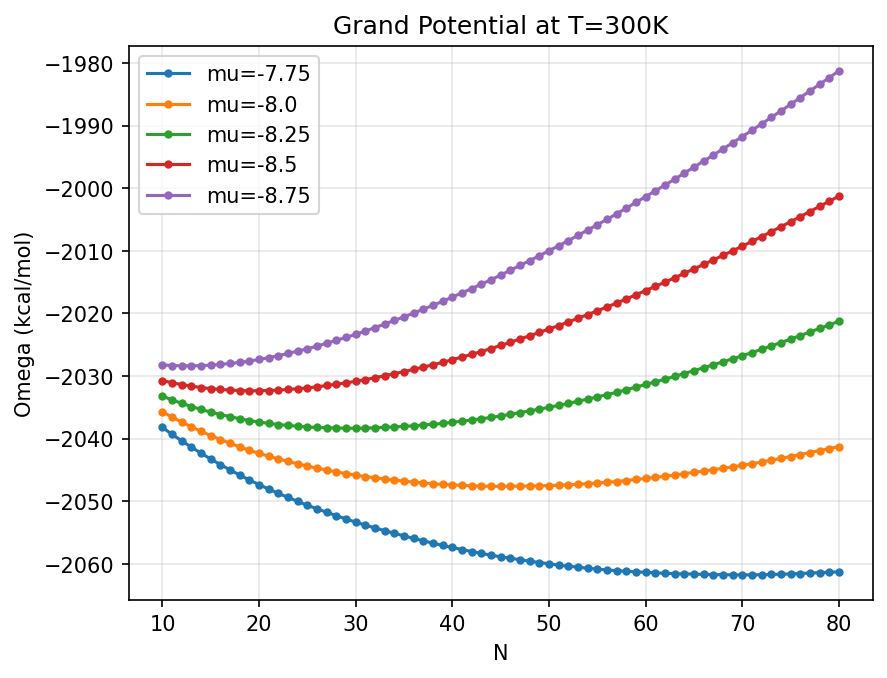
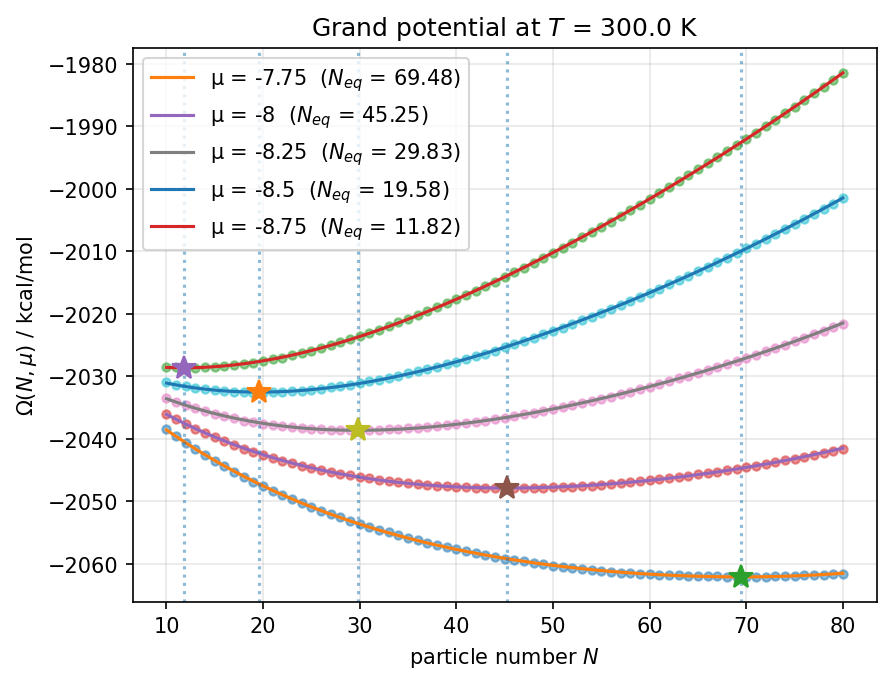
Plotting and docs updates.

Changed region(s): [[0.0, 0.0, 1.0, 0.9912], [0.5175, 0.3097, 0.7001, 0.4336]]

diff --git a/analysis/scripts/wang_landau/thermo.py b/analysis/scripts/wang_landau/thermo.py
@@ -38,14 +38,60 @@ def grand_potential(
     return helmholtz_free_energy(ln_g, T=T, kB=kB) - mu * N
 
 
+def _fitted_grand_potential(N, omega, degree):
+    r"""Fit ``omega(N)`` with a polynomial and locate its minimum.
+
+    Returns ``(poly, n_min)`` where ``poly`` is the fitted
+    :class:`numpy.poly1d` (or ``None`` when there are too few samples to fit)
+    and ``n_min`` is the minimizing ``N``. When the fit is unavailable or its
+    minimum lies outside the sampled range, ``n_min`` falls back to the
+    discrete :func:`numpy.argmin` of ``omega``.
+    """
+    n_min = float(N[int(np.argmin(omega))])
+
+    # Not enough points to fit the requested polynomial -> discrete argmin.
+    if N.size <= degree:
+        return None, n_min
+
+    coeffs = np.polyfit(N, omega, degree)  # highest power first
+    poly = np.poly1d(coeffs)
+
+    # Stationary points = real roots of the derivative inside [N.min, N.max].
+    n_lo, n_hi = float(N.min()), float(N.max())
+    roots = np.roots(np.polyder(coeffs))
+    real_roots = roots[np.isreal(roots)].real
+    inside = real_roots[(real_roots >= n_lo) & (real_roots <= n_hi)]
+    if inside.size == 0:
+        return poly, n_min
+
+    # Among the interior stationary points and the boundaries, pick the one
+    # with the lowest grand potential according to the fit.
+    candidates = np.concatenate(([n_lo, n_hi], inside))
+    n_min = float(candidates[int(np.argmin(poly(candidates)))])
+    return poly, n_min
+
+
 def equilibrium_particle_number(
     N: np.ndarray,
     ln_g: np.ndarray,
     mu: float,
     T: float = 300.0,
     kB: float = kB_KCAL,
-) -> int:
-    r"""Equilibrium particle number ``N_eq(mu) = argmin_N Omega(N, mu)``."""
+    degree: int = 4,
+) -> float:
+    r"""Equilibrium particle number ``N_eq(mu) = argmin_N Omega(N, mu)``.
+
+    Rather than returning the discrete sample with the smallest grand
+    potential, the grand potential ``Omega(N, mu)`` is fitted by a polynomial
+    of the given ``degree`` in ``N`` and the minimum of that fit is returned.
+    This yields a sub-integer estimate of the equilibrium particle number and
+    smooths over statistical noise in the Wang-Landau density of states.
+
+    Falls back to the discrete :func:`numpy.argmin` result when fewer than
+    ``degree + 1`` samples are available or when the fitted minimum lies
+    outside the sampled range of ``N``.
+    """
     N = np.asarray(N, dtype=float)
     omega = grand_potential(N, ln_g, mu, T=T, kB=kB)
-    return int(N[int(np.argmin(omega))])
+    _, n_min = _fitted_grand_potential(N, omega, degree)
+    return n_min

diff --git a/analysis/scripts/wang_landau/plotting.py b/analysis/scripts/wang_landau/plotting.py
@@ -9,7 +9,12 @@ from __future__ import annotations
 import numpy as np
 
 from .io import WangLandauResult
-from .thermo import grand_potential, helmholtz_free_energy, kB_KCAL
+from .thermo import (
+    _fitted_grand_potential,
+    grand_potential,
+    helmholtz_free_energy,
+    kB_KCAL,
+)
 
 
 def plot_grand_potential(
@@ -17,6 +22,8 @@ def plot_grand_potential(
     mus,
     T: float = 300.0,
     kB: float = kB_KCAL,
+    degree: int = 4,
+    show_fit: bool = True,
     ax=None,
     energy_unit: str = "kcal/mol",
 ):
@@ -28,6 +35,12 @@ def plot_grand_potential(
         Output of :func:`~wang_landau.io.read_qs_dat`.
     mus : iterable of float
         Chemical potentials to plot, in the same energy units as ``kB * T``.
+    degree : int, optional
+        Degree of the polynomial fit used to locate and display the minimum
+        of each curve (see :func:`~wang_landau.thermo.equilibrium_particle_number`).
+    show_fit : bool, optional
+        When true, overlay the polynomial fit and mark the fitted minimum
+        ``N_eq`` of each curve with a vertical line and marker.
     """
     import matplotlib.pyplot as plt
 
@@ -36,7 +49,22 @@ def plot_grand_potential(
 
     for mu in mus:
         omega = grand_potential(result.N, result.ln_g, mu, T=T, kB=kB)
-        ax.plot(result.N, omega, "o-", label=f"μ = {mu:g}", markersize=3)
+        ax.plot(result.N, omega, "o", markersize=4, alpha=0.5)
+
+        if show_fit:
+            poly, n_eq = _fitted_grand_potential(result.N, omega, degree)
+            label = f"μ = {mu:g}  ($N_{{eq}}$ = {n_eq:.2f})"
+            if poly is not None:
+                n_fine = np.linspace(result.N.min(), result.N.max(), 300)
+                ax.plot(n_fine, poly(n_fine), "-", lw=1.5, label=label)
+                ax.axvline(n_eq, ls=":", alpha=0.5)
+                ax.plot(n_eq, poly(n_eq), "*", markersize=12)
+            else:
+                ax.plot([], "-", label=label)
+        else:
+            n_eq = result.N[int(np.argmin(omega))]
+            ax.plot(result.N, omega, "-", lw=1.5,
+                    label=f"μ = {mu:g}  ($N_{{eq}}$ = {n_eq:g})")
 
     ax.set_xlabel("particle number $N$")
     ax.set_ylabel(rf"$\Omega(N,\mu)$ / {energy_unit}")

diff --git a/analysis/scripts/wang_landau/__init__.py b/analysis/scripts/wang_landau/__init__.py
@@ -8,7 +8,7 @@ thermodynamic quantities and plots:
 * :func:`read_qs_dat`        - load a ``qs.dat`` file
 * :func:`helmholtz_free_energy` - F(N) = -k_B T ln g(N)
 * :func:`grand_potential`    - Omega(N, mu) = F(N) - mu N
-* :func:`equilibrium_particle_number` - argmin_N Omega(N, mu)
+* :func:`equilibrium_particle_number` - polynomial-fit minimum of Omega(N, mu)
 * :func:`plot_grand_potential`, :func:`plot_free_energy` - quick figures
 
 See ``docs/analysis.md`` for a walk-through.

diff --git a/docs/analysis.md b/docs/analysis.md
@@ -57,7 +57,7 @@ both the example plot script and a command-line tool. The public API:
 | `read_qs_dat(path)` | Load a `qs.dat` file into a `WangLandauResult` (`.N`, `.ln_g`, `.histogram`). |
 | `helmholtz_free_energy(ln_g, T)` | `F(N) = -k_B T ln g(N)`. |
 | `grand_potential(N, ln_g, mu, T)` | `Omega(N, mu) = F(N) - mu N`. |
-| `equilibrium_particle_number(N, ln_g, mu, T)` | `argmin_N Omega(N, mu)`. |
+| `equilibrium_particle_number(N, ln_g, mu, T)` | Polynomial-fit minimum of `Omega(N, mu)`. |
 | `plot_grand_potential(result, mus)` | Quick figure of `Omega(N, mu)` for several `mu`. |
 | `plot_free_energy(result)` | Quick figure of `F(N)`. |
 